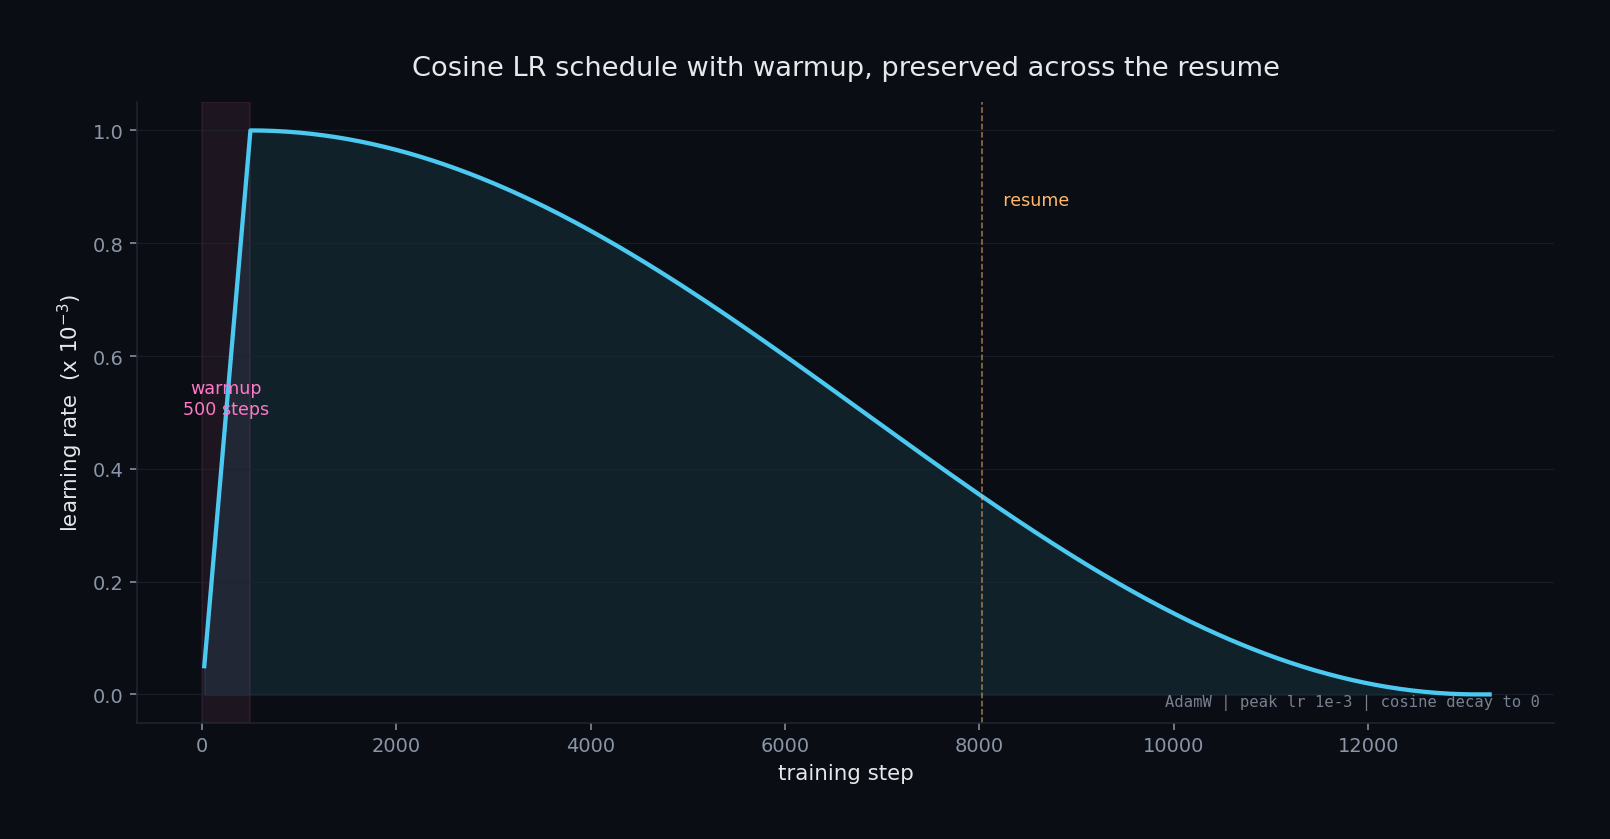
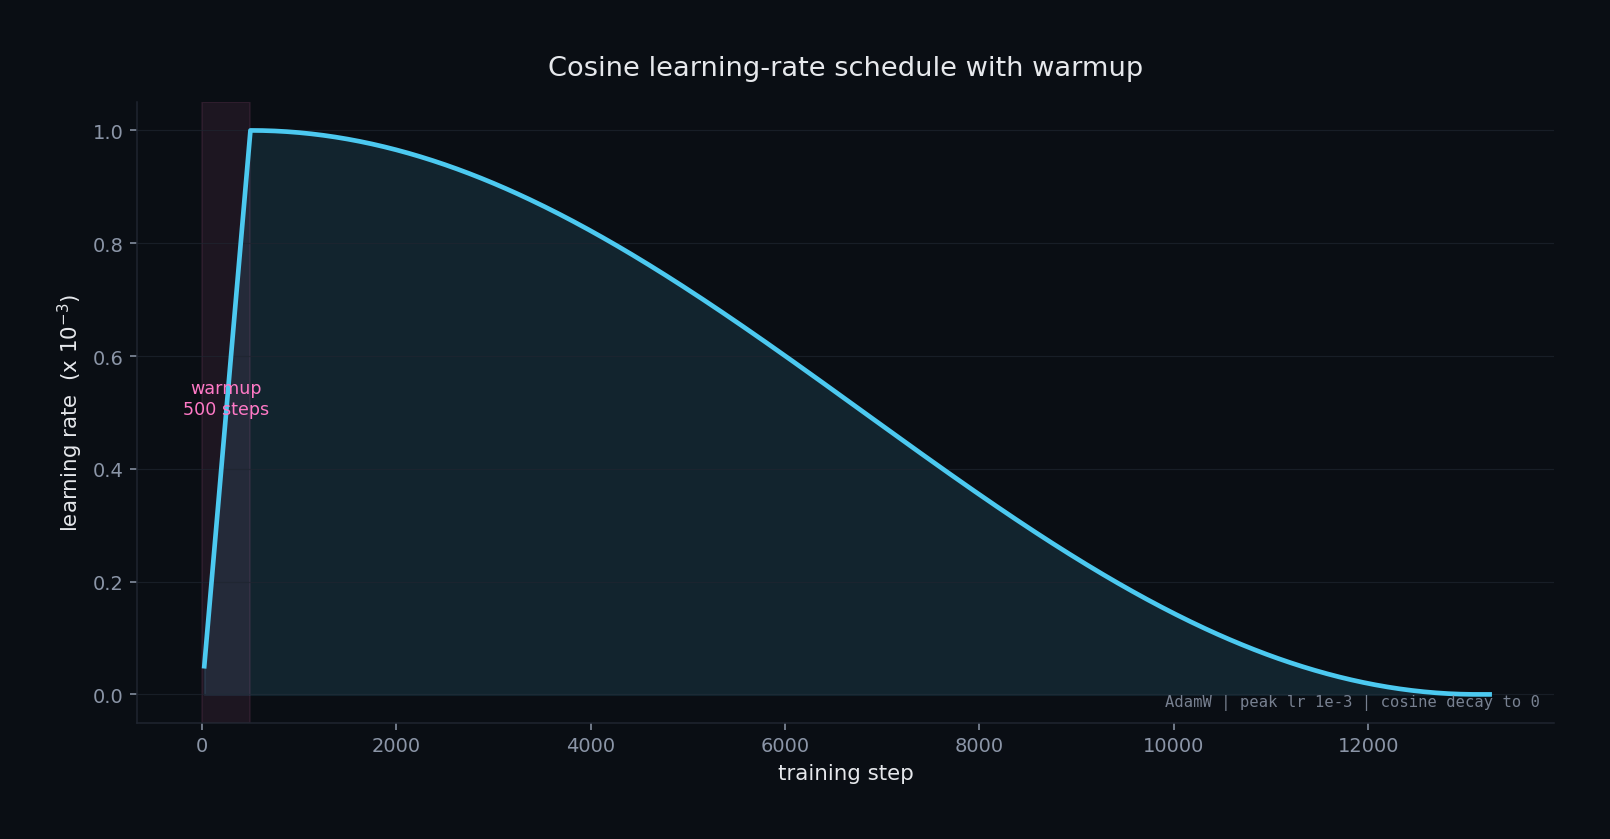
Strip operational-detail annotations from training charts
Charts now read as a single continuous training run. Removed:

- "9h wall hit, checkpoint saved, resumed next day" callout on the loss curve
- "Day 1 / Day 2" split labels on loss, accuracy, and margin charts
- Resume seam vertical line on the LR schedule
- W&B run IDs in corner annotations

W&B history for both segments is stitched into a single dataframe with
overlap on `step` dropped, then each chart plots one trace. Behavior is
unchanged for chart 02 (per-language) and chart 06 (param efficiency).

Renamed 01_loss_curve_with_resume_seam.png -> 01_training_loss.png to
match the new framing.

Changed region(s): [[0.2484, 0.062, 0.8075, 0.093], [0.6211, 0.2169, 0.6522, 0.2479]]

diff --git a/scripts/06_generate_training_charts.py b/scripts/06_generate_training_charts.py
@@ -1,15 +1,13 @@
 """Generate the headline training charts into graphs/.
 
-Six PNGs, dark aesthetic, ~30s end-to-end. Each tells a self-contained
-story about the M5b headline run (W&B run y2o2g3yh -> yjypnef4, dataset
-`harshalsinghcn/natscore-checkpoint`, model `harrrshall/natscore-small-v0`):
+Six PNGs, dark aesthetic, ~30s end-to-end.
 
-    01_loss_curve_with_resume_seam.png  - 2-day training loss, resume boundary visible
-    02_per_language_accuracy.png        - bar chart of per-language pairwise acc on dev[:1000]
-    03_train_accuracy_trajectory.png    - per-batch accuracy with EMA overlay
-    04_mean_margin_growth.png           - BT margin trajectory (0 -> 2.37)
-    05_lr_schedule.png                  - cosine-with-warmup + Day-2 resume seam
-    06_param_efficiency.png             - NatScore vs SpeechJudge-{BTRM,GRM} (log-x)
+    01_training_loss.png            BT loss curve (raw + EMA)
+    02_per_language_accuracy.png    bar chart of per-language pairwise acc on dev[:1000]
+    03_train_accuracy_trajectory.png per-batch accuracy with EMA overlay
+    04_mean_margin_growth.png       BT margin trajectory (0 -> 2.37)
+    05_lr_schedule.png              cosine-with-warmup
+    06_param_efficiency.png         NatScore vs SpeechJudge-{BTRM,GRM} (log-x)
 
 Run:
     python scripts/06_generate_training_charts.py
@@ -30,8 +28,8 @@ GRAPHS_DIR = REPO_ROOT / "graphs"
 EVAL_JSON = REPO_ROOT / "outputs" / "natscore-small-v0-kaggle" / "eval_dev.json"
 
 WANDB_PROJECT = "harshalsingh1223-gladium-ai/natscore"
-DAY1_RUN = "y2o2g3yh"   # single-T4, step 0 -> 8000, hit 9h wall
-DAY2_RUN = "yjypnef4"   # T4 x2 + DataParallel, resumed step 8000 -> 13250
+RUN_PART_1 = "y2o2g3yh"
+RUN_PART_2 = "yjypnef4"
 
 # ---------------------------------------------------------------- aesthetic
 
@@ -85,6 +83,19 @@ def _ema(series: pd.Series, alpha: float = 0.1) -> pd.Series:
     return series.ewm(alpha=alpha, adjust=False).mean()
 
 
+def _full_history(part1: pd.DataFrame, part2: pd.DataFrame) -> pd.DataFrame:
+    """Stitch the two W&B segments into one continuous training history.
+
+    Drops any overlap on `step` (the second segment resumed from the first
+    segment's checkpoint, so the first ~1 step of segment 2 duplicates the
+    last step of segment 1).
+    """
+    cutoff = part1["step"].max()
+    p2 = part2[part2["step"] > cutoff]
+    full = pd.concat([part1, p2], ignore_index=True)
+    return full.sort_values("step").reset_index(drop=True)
+
+
 def _annotate_corner(ax, text: str, color: str = MUTED) -> None:
     ax.text(
         0.99, 0.02, text,
@@ -95,34 +106,16 @@ def _annotate_corner(ax, text: str, color: str = MUTED) -> None:
 
 # ============================================================ 01: loss curve
 
-def chart_loss(day1: pd.DataFrame, day2: pd.DataFrame, out: Path) -> None:
+def chart_loss(full: pd.DataFrame, out: Path) -> None:
     fig, ax = plt.subplots(figsize=(11, 5.5))
 
-    # Raw (light) + EMA (bold) per day
-    for day_df, day_color, day_label in [
-        (day1, CYAN, "Day 1 (single T4)"),
-        (day2, MAGENTA, "Day 2 (T4 x2 + DataParallel)"),
-    ]:
-        ax.plot(day_df["step"], day_df["loss"],
-                color=day_color, alpha=0.18, linewidth=1.0)
-        ax.plot(day_df["step"], _ema(day_df["loss"], 0.08),
-                color=day_color, linewidth=2.2, label=day_label)
-
-    # Resume seam at step ~8000
-    resume_step = max(day1["step"].max(), 8000)
-    ax.axvspan(day1["step"].max(), day2["step"].min(),
-               color=AMBER, alpha=0.10)
-    ax.axvline(resume_step, color=AMBER, linewidth=0.8, linestyle="--", alpha=0.6)
-    ax.annotate(
-        "9 h wall hit\ncheckpoint saved\nresumed next day",
-        xy=(resume_step, ax.get_ylim()[1] * 0.95),
-        xytext=(resume_step + 600, 0.85),
-        color=AMBER, fontsize=9, ha="left", va="top",
-        arrowprops=dict(arrowstyle="-", color=AMBER, alpha=0.6, lw=0.8),
-    )
+    ax.plot(full["step"], full["loss"],
+            color=CYAN, alpha=0.18, linewidth=1.0)
+    ax.plot(full["step"], _ema(full["loss"], 0.06),
+            color=CYAN, linewidth=2.4, label="training loss (EMA)")
 
     # Final loss callout
-    final = day2.iloc[-1]
+    final = full.iloc[-1]
     ax.scatter([final["step"]], [final["loss"]], s=80, color=MINT,
                zorder=5, edgecolor=BG, linewidth=1.5)
     ax.annotate(
@@ -135,10 +128,10 @@ def chart_loss(day1: pd.DataFrame, day2: pd.DataFrame, out: Path) -> None:
 
     ax.set_xlabel("training step")
     ax.set_ylabel("Bradley-Terry loss")
-    ax.set_title("Training loss across the 2-day resumed run", pad=14)
+    ax.set_title("Training loss", pad=14)
     ax.grid(True, axis="y")
     ax.legend(loc="upper right")
-    _annotate_corner(ax, "y2o2g3yh -> yjypnef4 | 13,250 steps | 5 epochs")
+    _annotate_corner(ax, "translucent = raw, bold = EMA smoothed")
 
     fig.tight_layout()
     fig.savefig(out, bbox_inches="tight", pad_inches=0.4)
@@ -157,7 +150,6 @@ def chart_per_language(eval_data: dict, out: Path) -> None:
     accs = np.array([r[1] for r in rows])
     ns = [r[2] for r in rows]
 
-    # Color by tier
     def tier_color(a: float) -> str:
         if a >= 0.80: return MINT
         if a >= 0.70: return CYAN
@@ -168,18 +160,15 @@ def chart_per_language(eval_data: dict, out: Path) -> None:
     fig, ax = plt.subplots(figsize=(11, 5.5))
 
     bars = ax.barh(labels, accs, color=colors, edgecolor=BG, linewidth=1.2)
-    # Value + N label at the end of each bar
     for bar, a, n in zip(bars, accs, ns):
         ax.text(a + 0.008, bar.get_y() + bar.get_height() / 2,
                 f"{100*a:.1f}%   n={n}",
                 va="center", ha="left", color=TEXT, fontsize=10)
 
-    # Chance baseline
     ax.axvline(0.5, color=MUTED, linestyle="--", linewidth=1.0, alpha=0.7)
     ax.text(0.5, len(labels) - 0.4, " chance",
             color=MUTED, fontsize=9, va="bottom")
 
-    # Headline baseline (overall 71.3%)
     overall = eval_data["pairwise_accuracy"]
     ax.axvline(overall, color=LAVENDER, linestyle=":", linewidth=1.4, alpha=0.9)
     ax.text(overall, -0.6, f" overall {100*overall:.1f}%",
@@ -201,26 +190,20 @@ def chart_per_language(eval_data: dict, out: Path) -> None:
 
 # ============================================== 03: train acc trajectory
 
-def chart_train_acc(day1: pd.DataFrame, day2: pd.DataFrame, out: Path) -> None:
+def chart_train_acc(full: pd.DataFrame, out: Path) -> None:
     fig, ax = plt.subplots(figsize=(11, 5.5))
 
-    for day_df, day_color, day_label in [
-        (day1, CYAN, "Day 1"),
-        (day2, MAGENTA, "Day 2"),
-    ]:
-        ax.plot(day_df["step"], day_df["accuracy"],
-                color=day_color, alpha=0.16, linewidth=1.0)
-        ax.plot(day_df["step"], _ema(day_df["accuracy"], 0.05),
-                color=day_color, linewidth=2.2, label=day_label + " (EMA)")
+    ax.plot(full["step"], full["accuracy"],
+            color=MAGENTA, alpha=0.16, linewidth=1.0)
+    ax.plot(full["step"], _ema(full["accuracy"], 0.04),
+            color=MAGENTA, linewidth=2.4, label="per-batch accuracy (EMA)")
 
-    # 50% chance line
     ax.axhline(0.5, color=MUTED, linestyle="--", linewidth=1.0, alpha=0.7)
-    ax.text(day1["step"].iloc[5], 0.51, "chance",
+    ax.text(full["step"].iloc[5], 0.51, "chance",
             color=MUTED, fontsize=9, va="bottom")
 
-    # M5b target
     ax.axhline(0.70, color=AMBER, linestyle=":", linewidth=1.2, alpha=0.9)
-    ax.text(day2["step"].iloc[-30], 0.715, "M5b target (>70%)",
+    ax.text(full["step"].iloc[-30], 0.715, "70% reference",
             color=AMBER, fontsize=9, va="bottom")
 
     ax.set_xlabel("training step")
@@ -238,21 +221,17 @@ def chart_train_acc(day1: pd.DataFrame, day2: pd.DataFrame, out: Path) -> None:
 
 # ============================================== 04: mean margin growth
 
-def chart_margin(day1: pd.DataFrame, day2: pd.DataFrame, out: Path) -> None:
+def chart_margin(full: pd.DataFrame, out: Path) -> None:
     fig, ax = plt.subplots(figsize=(11, 5.5))
 
-    full = pd.concat([day1, day2]).sort_values("step").reset_index(drop=True)
+    ema = _ema(full["mean_margin"], 0.05)
 
     ax.plot(full["step"], full["mean_margin"],
-            color=LAVENDER, alpha=0.20, linewidth=1.0)
-    ax.plot(full["step"], _ema(full["mean_margin"], 0.05),
-            color=LAVENDER, linewidth=2.4, label="mean margin (EMA)")
-
-    # Fill area under EMA
-    ema = _ema(full["mean_margin"], 0.05)
+            color=LAVENDER, alpha=0.18, linewidth=1.0)
     ax.fill_between(full["step"], 0, ema, color=LAVENDER, alpha=0.10)
+    ax.plot(full["step"], ema, color=LAVENDER, linewidth=2.6,
+            label="mean margin (EMA)")
 
-    # Final callout
     final_step, final_margin = full["step"].iloc[-1], ema.iloc[-1]
     ax.scatter([final_step], [final_margin], s=80, color=MINT,
                zorder=5, edgecolor=BG, linewidth=1.5)
@@ -278,32 +257,22 @@ def chart_margin(day1: pd.DataFrame, day2: pd.DataFrame, out: Path) -> None:
 
 # ============================================================ 05: LR schedule
 
-def chart_lr(day1: pd.DataFrame, day2: pd.DataFrame, out: Path) -> None:
+def chart_lr(full: pd.DataFrame, out: Path) -> None:
     fig, ax = plt.subplots(figsize=(11, 5.5))
 
-    full = pd.concat([day1, day2]).sort_values("step").reset_index(drop=True)
-
     ax.plot(full["step"], full["lr"] * 1000,
-            color=CYAN, linewidth=2.2, label="learning rate")
+            color=CYAN, linewidth=2.4, label="learning rate")
     ax.fill_between(full["step"], 0, full["lr"] * 1000,
-                    color=CYAN, alpha=0.10)
+                    color=CYAN, alpha=0.12)
 
-    # Resume seam: LR was restored from the checkpoint, so there's a
-    # small jump if the cosine wasn't exactly preserved across the wall.
-    resume_step = day2["step"].min()
-    ax.axvline(resume_step, color=AMBER, linewidth=0.8, linestyle="--", alpha=0.6)
-    ax.text(resume_step + 100, ax.get_ylim()[1] * 0.85,
-            "  resume", color=AMBER, fontsize=9, va="top")
-
-    # Warmup annotation
     warmup_end = 500
     ax.axvspan(0, warmup_end, color=MAGENTA, alpha=0.08)
-    ax.text(warmup_end / 2, ax.get_ylim()[1] * 0.5, "warmup\n500 steps",
+    ax.text(warmup_end / 2, ax.get_ylim()[1] * 0.50, "warmup\n500 steps",
             color=MAGENTA, fontsize=9, ha="center", va="center")
 
     ax.set_xlabel("training step")
     ax.set_ylabel("learning rate  (x 10$^{-3}$)")
-    ax.set_title("Cosine LR schedule with warmup, preserved across the resume", pad=14)
+    ax.set_title("Cosine learning-rate schedule with warmup", pad=14)
     ax.grid(True, axis="y")
     _annotate_corner(ax, "AdamW | peak lr 1e-3 | cosine decay to 0")
 
@@ -317,9 +286,7 @@ def chart_lr(day1: pd.DataFrame, day2: pd.DataFrame, out: Path) -> None:
 def chart_param_efficiency(eval_data: dict, out: Path) -> None:
     natscore_acc = eval_data["pairwise_accuracy"]
 
-    # Three systems, all measured on SpeechJudge-Eval (apples to apples).
     systems = [
-        # (name, params, accuracy, color, marker)
         ("NatScore-small-v0\n(this work)", 394_255, natscore_acc, MINT, "o"),
         ("SpeechJudge-BTRM\n(Zhang+ 2025)", 7_000_000_000, 0.727, CYAN, "s"),
         ("SpeechJudge-GRM\n(Zhang+ 2025)", 7_000_000_000, 0.772, LAVENDER, "D"),
@@ -330,7 +297,6 @@ def chart_param_efficiency(eval_data: dict, out: Path) -> None:
     for name, params, acc, color, marker in systems:
         ax.scatter([params], [acc * 100], s=260, c=color,
                    marker=marker, edgecolor=BG, linewidth=2.0, zorder=5)
-        # Label offset based on position
         if "NatScore" in name:
             xytext = (params * 2.5, acc * 100 - 1.5)
             ha = "left"
@@ -343,8 +309,6 @@ def chart_param_efficiency(eval_data: dict, out: Path) -> None:
             fontweight="bold",
         )
 
-    # Highlight the parameter-efficiency story
-    # NatScore is 17,500x smaller than BTRM at ~the same accuracy
     ax.annotate(
         "",
         xy=(394_255, 71.3), xytext=(7_000_000_000, 72.7),
@@ -379,11 +343,11 @@ def chart_param_efficiency(eval_data: dict, out: Path) -> None:
 def main() -> None:
     GRAPHS_DIR.mkdir(parents=True, exist_ok=True)
 
-    print("[1/3] fetching W&B history (Day 1 + Day 2)...")
-    day1 = _fetch_wandb_history(DAY1_RUN)
-    day2 = _fetch_wandb_history(DAY2_RUN)
-    print(f"        Day 1: {len(day1)} rows, steps {day1['step'].min()}-{day1['step'].max()}")
-    print(f"        Day 2: {len(day2)} rows, steps {day2['step'].min()}-{day2['step'].max()}")
+    print("[1/3] fetching W&B history...")
+    part1 = _fetch_wandb_history(RUN_PART_1)
+    part2 = _fetch_wandb_history(RUN_PART_2)
+    full = _full_history(part1, part2)
+    print(f"        {len(full)} rows, steps {full['step'].min()}-{full['step'].max()}")
 
     print("[2/3] loading eval_dev.json...")
     eval_data = json.loads(EVAL_JSON.read_text())
@@ -391,18 +355,12 @@ def main() -> None:
 
     print("[3/3] rendering charts...")
     charts = [
-        ("01_loss_curve_with_resume_seam.png",
-         lambda p: chart_loss(day1, day2, p)),
-        ("02_per_language_accuracy.png",
-         lambda p: chart_per_language(eval_data, p)),
-        ("03_train_accuracy_trajectory.png",
-         lambda p: chart_train_acc(day1, day2, p)),
-        ("04_mean_margin_growth.png",
-         lambda p: chart_margin(day1, day2, p)),
-        ("05_lr_schedule.png",
-         lambda p: chart_lr(day1, day2, p)),
-        ("06_param_efficiency.png",
-         lambda p: chart_param_efficiency(eval_data, p)),
+        ("01_training_loss.png",            lambda p: chart_loss(full, p)),
+        ("02_per_language_accuracy.png",    lambda p: chart_per_language(eval_data, p)),
+        ("03_train_accuracy_trajectory.png", lambda p: chart_train_acc(full, p)),
+        ("04_mean_margin_growth.png",       lambda p: chart_margin(full, p)),
+        ("05_lr_schedule.png",              lambda p: chart_lr(full, p)),
+        ("06_param_efficiency.png",         lambda p: chart_param_efficiency(eval_data, p)),
     ]
     for name, fn in charts:
         out_path = GRAPHS_DIR / name